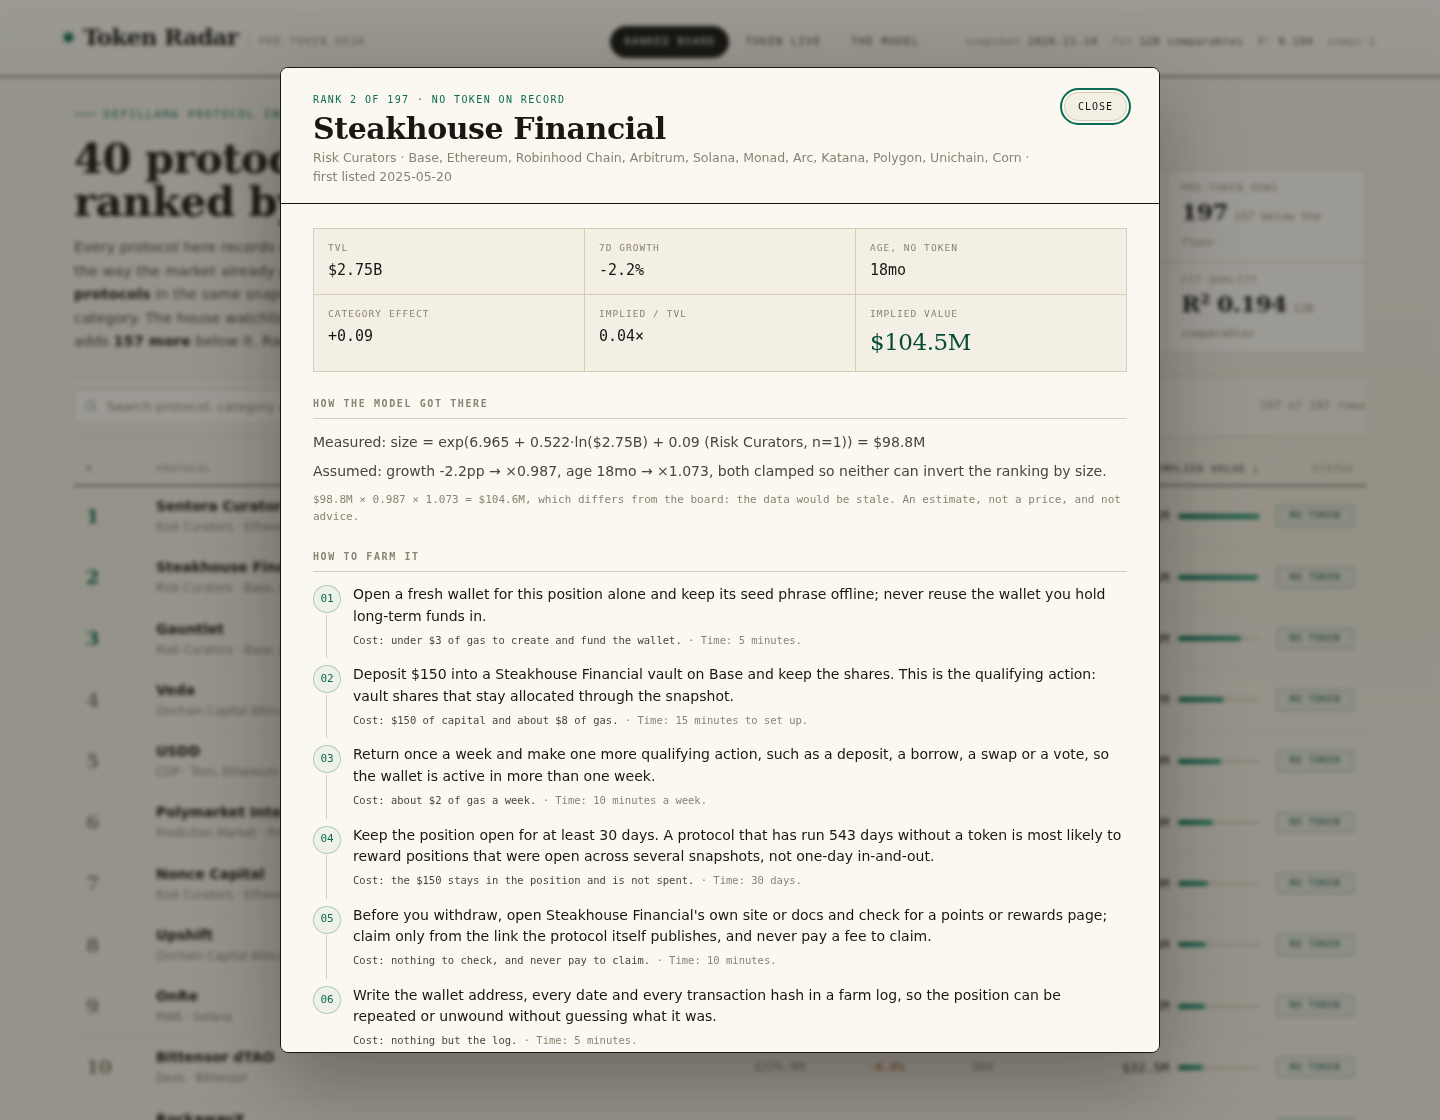
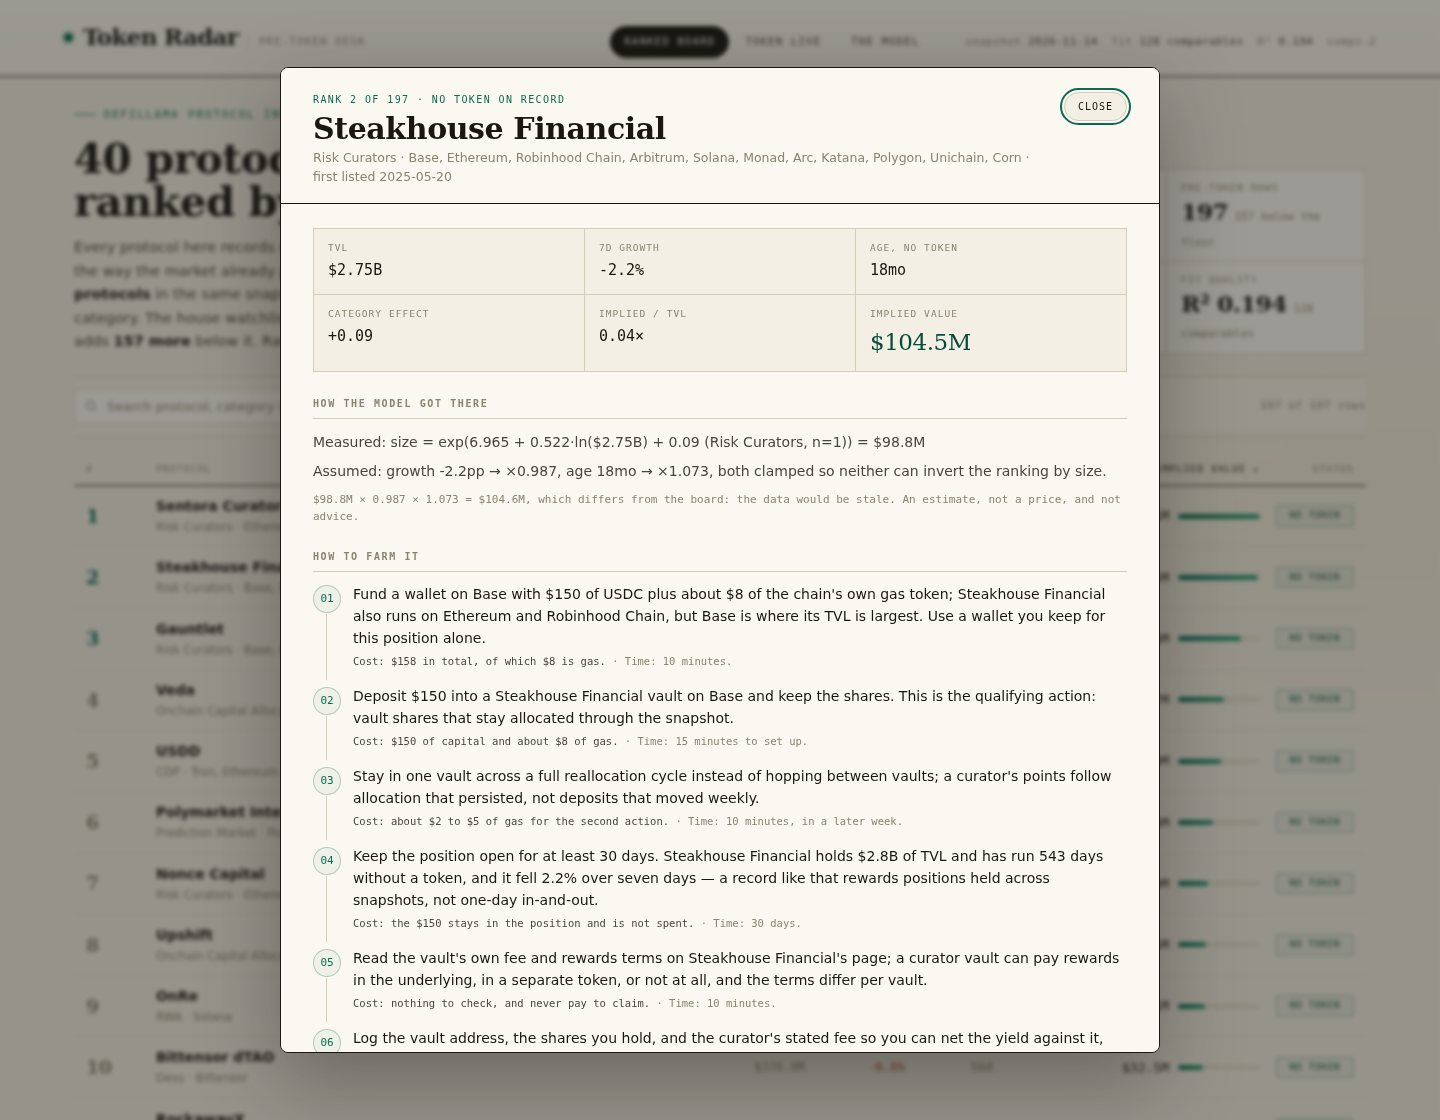
Farm plans: make all six steps protocol-specific
Three of six steps were one sentence for all 197 rows, and a further two
varied only by name or number, so a reader learned nothing about the
protocol from them. Only the qualifying action was genuinely specific,
and 27 rows fell through to a generic deposit template.

Every category now carries its own retain, claim and record text, and
steps 1 and 4 name the chains, TVL, age and seven-day change that drove
the row. The remaining variation is by category and by measured figure,
which is what the plan is derived from.

Coverage: 0 rows now reach the last-resort template (was 27). Every step
varies; 16 distinct retain and 16 distinct record texts cover 197 rows.
CeDeFi never matched its own branch, since 'cefi' is not a substring of
'cedefi'.

Changed region(s): [[0.2188, 0.5, 0.7812, 0.9375]]

diff --git a/lib/board.ts b/lib/board.ts
@@ -88,6 +88,14 @@ export function stepText(step: FarmStep): string {
   return s;
 }
 
+/** A dollar figure in the unit a reader thinks in: $2.8B, $513.8M, $45.2K. */
+function compactUsd(n: number): string {
+  if (n >= 1e9) return `$${(n / 1e9).toFixed(1)}B`;
+  if (n >= 1e6) return `$${(n / 1e6).toFixed(1)}M`;
+  if (n >= 1e3) return `$${(n / 1e3).toFixed(1)}K`;
+  return `$${Math.round(n)}`;
+}
+
 /** The chain a reader will actually use: the first one, which is where the TVL is largest. */
 function chainOf(p: SnapshotProtocol): string {
   return p.chains.length > 0 ? p.chains[0]! : 'its main chain';
@@ -109,77 +117,203 @@ function holdDaysFor(age: number | null): number {
   return 30;
 }
 
-/** The category's qualifying action, in words a farmer can follow, and what it earns on. */
-function actionFor(p: SnapshotProtocol, capital: number, chain: string): { action: string; earns: string } {
+/** A category's plan: what to do, how to stay active, what to check before claiming, what to record. */
+interface CategoryPlan {
+  qualify: string;
+  earns: string;
+  retain: string;
+  claim: string;
+  record: string;
+}
+
+/** The category's plan, in words a farmer can follow, from the protocol's own record. */
+function planFor(p: SnapshotProtocol, capital: number, chain: string): CategoryPlan {
   const c = (p.category ?? '').toLowerCase();
   const name = p.name;
   if (c.includes('lend') || c.includes('cdp') || c.includes('collateral'))
-    return { action: `Supply $${capital} of USDC to ${name} on ${chain} and keep the position open.`, earns: 'supply-side interest and a borrowing position that counts as usage' };
+    return {
+      qualify: `Supply $${capital} of USDC to ${name} on ${chain} and keep the position open.`,
+      earns: 'supply-side interest and a borrowing position that counts as usage',
+      retain: `Borrow a small amount against the supply — well under the position's limit — and repay it a few days later. A lending protocol counts a wallet that both supplies and borrows as a real user, not a one-way depositor.`,
+      claim: `Check ${name}'s own app for a points or rewards tab before withdrawing, and confirm whether rewards accrue on supplied balance, borrowed balance or both; claiming from a link anyone else posted is how farm wallets get drained.`,
+      record: `the supply and borrow transaction hashes, the market you used, and the health factor you left the position at`,
+    };
   if (c.includes('dex') || c.includes('leveraged farm'))
-    return { action: `Provide $${capital} of liquidity to ${name}'s deepest pool on ${chain}.`, earns: 'swap fees and a liquidity position in the protocol\'s own pool' };
+    return {
+      qualify: `Provide $${capital} of liquidity to ${name}'s deepest pool on ${chain}.`,
+      earns: 'swap fees and a liquidity position in the protocol\'s own pool',
+      retain: `Re-range or rebalance the position once a week rather than leaving it out of range; an out-of-range position earns nothing and reads as inactive, while a rebalance is a second week of qualifying activity.`,
+      claim: `Check whether ${name} rewards the pool you chose or only listed pools, and whether fees must be claimed before the position is closed; unclaimed fees are the most commonly forfeited reward on a DEX.`,
+      record: `the pool address, the position NFT id if the DEX issues one, and each rebalance's transaction hash`,
+    };
   if (c.includes('yield'))
-    return { action: `Deposit $${capital} of USDC into ${name}'s highest-TVL vault on ${chain}.`, earns: 'vault yield and a deposit that stays through the snapshot' };
+    return {
+      qualify: `Deposit $${capital} of USDC into ${name}'s highest-TVL vault on ${chain}.`,
+      earns: 'vault yield and a deposit that stays through the snapshot',
+      retain: `Leave the deposit through at least one full epoch and check the vault's share price moved, rather than adding and removing in the same week; a deposit that spans a snapshot is what a points program can see.`,
+      claim: `Confirm on ${name}'s own page whether rewards are paid in the vault's own token or a separate one, and whether the vault must be exited to claim.`,
+      record: `the vault address, the share count you received, and the entry and exit share prices`,
+    };
   if (c.includes('bridge'))
-    return { action: `Bridge $${capital} of USDC to ${chain} through ${name} and use the bridged funds there.`, earns: 'bridging volume in both directions' };
+    return {
+      qualify: `Bridge $${capital} of USDC to ${chain} through ${name} and use the bridged funds there.`,
+      earns: 'bridging volume in both directions',
+      retain: `Bridge back a portion after a few days rather than leaving funds stranded. Volume in both directions is what a bridge measures, and a round trip costs little on a cheap chain.`,
+      claim: `Bridge points are usually counted per direction and per chain pair, so check ${name}'s own dashboard for which pairs qualify before you assume your route counted.`,
+      record: `each route's source and destination chain, the transaction hash on both sides, and the amount that actually arrived after fees`,
+    };
   if (c.includes('staking') || c.includes('restak'))
-    return { action: `Stake $${capital} of the chain's staking asset through ${name} and keep the receipt token.`, earns: 'staking yield on the receipt, held rather than sold' };
-  if (c.includes('perpetual') || c.includes('derivative') || c.includes('options'))
-    return { action: `Deposit $${capital} of USDC as margin on ${name} on ${chain} and open one small hedge.`, earns: 'trading volume with the margin kept on the venue' };
+    return {
+      qualify: `Stake $${capital} of the chain's staking asset through ${name} and keep the receipt token.`,
+      earns: 'staking yield on the receipt, held rather than sold',
+      retain: `Hold the receipt token rather than selling it; a receipt that is sold back to the market is a wallet that took the yield and left, which is the opposite of what a restaking points program rewards.`,
+      claim: `Check whether ${name} rewards the receipt token holder or the underlying staker, and whether an unbonding period delays the exit past the snapshot.`,
+      record: `the receipt token's contract address, the amount minted, and the unbonding period that applies to your position`,
+    };
+  if (c.includes('perpetual') || c.includes('derivative') || c.includes('options') || c.includes('basis'))
+    return {
+      qualify: `Deposit $${capital} of USDC as margin on ${name} on ${chain} and open one small hedge.`,
+      earns: 'trading volume with the margin kept on the venue',
+      retain: `Keep the margin on the venue between trades instead of withdrawing after each one; a margin balance that stays is what a trading points program measures, and it costs nothing to leave it there.`,
+      claim: `Check ${name}'s own fee and rewards page for whether points follow volume, open interest or margin held — the three reward very different behaviour.`,
+      record: `each position's size, entry and exit, the funding paid, and the margin balance you kept on the venue`,
+    };
   if (c.includes('prediction'))
-    return { action: `Fund $${capital} on ${name} and take one position on a market you can follow.`, earns: 'a settled position in the protocol\'s own market' };
-  if (c.includes('curator') || c.includes('allocator') || c.includes('risk'))
-    return { action: `Deposit $${capital} into a ${name} vault on ${chain} and keep the shares.`, earns: 'vault shares that stay allocated through the snapshot' };
+    return {
+      qualify: `Fund $${capital} on ${name} and take one position on a market you can follow.`,
+      earns: 'a settled position in the protocol\'s own market',
+      retain: `Let at least one position settle rather than closing it early; a settled position is a resolved trade the protocol can verify, while an early exit is indistinguishable from wash activity.`,
+      claim: `Check whether ${name} rewards volume, liquidity provided, or markets resolved, and claim only from the protocol's own site.`,
+      record: `the market you took, the price you entered at, the resolution, and the payout transaction hash`,
+    };
+  if (c.includes('curator') || c.includes('allocator') || c.includes('risk') || c.includes('liquidity manager'))
+    return {
+      qualify: `Deposit $${capital} into a ${name} vault on ${chain} and keep the shares.`,
+      earns: 'vault shares that stay allocated through the snapshot',
+      retain: `Stay in one vault across a full reallocation cycle instead of hopping between vaults; a curator's points follow allocation that persisted, not deposits that moved weekly.`,
+      claim: `Read the vault's own fee and rewards terms on ${name}'s page; a curator vault can pay rewards in the underlying, in a separate token, or not at all, and the terms differ per vault.`,
+      record: `the vault address, the shares you hold, and the curator's stated fee so you can net the yield against it`,
+    };
   if (c.includes('stable'))
-    return { action: `Mint or deposit $${capital} of the stable asset through ${name} on ${chain}.`, earns: 'supply of the stable asset and its peg volume' };
+    return {
+      qualify: `Mint or deposit $${capital} of the stable asset through ${name} on ${chain}.`,
+      earns: 'supply of the stable asset and its peg volume',
+      retain: `Hold the minted asset across a snapshot rather than minting and redeeming in one session; a stablecoin's usage is measured by supply that persisted.`,
+      claim: `Check ${name}'s own page for whether rewards follow minting, holding or providing liquidity, and whether a redemption fee eats the yield.`,
+      record: `the mint and redemption hashes, the collateral ratio you left the position at, and the redemption fee that applied`,
+    };
   if (c.includes('rwa'))
-    return { action: `Mint $${capital} of ${name}'s yield asset on ${chain} and hold it.`, earns: 'the yield the asset pays while it is held' };
+    return {
+      qualify: `Mint $${capital} of ${name}'s yield asset on ${chain} and hold it.`,
+      earns: 'the yield the asset pays while it is held',
+      retain: `Hold through at least one distribution date; an RWA pays on a schedule, so a position closed before the date earns the exposure and none of the yield.`,
+      claim: `Check ${name}'s own terms for the distribution schedule, any lock-up, and whether the asset can be redeemed at all on ${chain}.`,
+      record: `the asset's contract address, the distribution dates you held through, and the yield actually paid`,
+    };
   if (c.includes('insurance'))
-    return { action: `Buy $${capital} of cover from ${name} on ${chain} and keep the policy.`, earns: 'premium the protocol keeps, with the cover held' };
+    return {
+      qualify: `Buy $${capital} of cover from ${name} on ${chain} and keep the policy.`,
+      earns: 'premium the protocol keeps, with the cover held',
+      retain: `Keep the policy active past its first period rather than cancelling; underwriting capacity that stayed is what an insurance protocol counts.`,
+      claim: `Check ${name}'s own page for whether rewards follow premium paid, cover provided as an underwriter, or capital staked in the backstop.`,
+      record: `the policy id, the premium paid, the cover period, and the claim terms you were given`,
+    };
   if (c.includes('index'))
-    return { action: `Mint $${capital} of ${name}'s index on ${chain} and hold the basket.`, earns: 'the index exposure, held rather than redeemed' };
+    return {
+      qualify: `Mint $${capital} of ${name}'s index on ${chain} and hold the basket.`,
+      earns: 'the index exposure, held rather than redeemed',
+      retain: `Hold the index across a rebalance rather than minting and redeeming around it; a rebalance is where an index protocol sees who actually tracks it.`,
+      claim: `Check ${name}'s own page for the rebalance schedule and whether rewards follow holding or minting volume.`,
+      record: `the index token address, the components you received, and the rebalance dates you held through`,
+    };
   if (c.includes('launchpad'))
-    return { action: `Fund $${capital} on ${name} on ${chain} and take part in one launch.`, earns: 'a subscription that counts as demand on the launchpad' };
-  return { action: `Deposit $${capital} of USDC into ${name} on ${chain} and keep the position open.`, earns: 'a deposit that stays in the protocol through the snapshot' };
+    return {
+      qualify: `Fund $${capital} on ${name} on ${chain} and take part in one launch.`,
+      earns: 'a subscription that counts as demand on the launchpad',
+      retain: `Take part in a second launch rather than one; a launchpad measures repeat participation, and a single subscription reads as a one-off.`,
+      claim: `Check ${name}'s own page for whether rewards follow subscription size, number of launches joined, or tokens held after the sale.`,
+      record: `each launch you joined, the amount subscribed, the allocation received, and the vesting terms`,
+    };
+  if (c.includes('chain'))
+    return {
+      qualify: `Bridge $${capital} of USDC onto ${name} through its official bridge and use the funds there.`,
+      earns: 'bridged liquidity and on-chain activity on the chain itself',
+      retain: `Keep the funds on ${name} and make a few transactions over separate weeks; a chain measures addresses that stayed and used it, not addresses that bridged in and straight out.`,
+      claim: `Check ${name}'s own official channels for an incentives or points program, and treat any other link as hostile — chain airdrop phishing is the most common drain of farm wallets.`,
+      record: `the bridge transaction hash, the address you used on ${name}, and every transaction you made there`,
+    };
+  if (c.includes('payment') || c.includes('card'))
+    return {
+      qualify: `Move $${capital} through ${name} on ${chain} and complete one real transaction end to end.`,
+      earns: 'settled volume the protocol can verify, not a deposit that sat idle',
+      retain: `Complete a second transaction in a later week rather than one large one; payment products measure recurring settled volume.`,
+      claim: `Check ${name}'s own terms for whether rewards follow volume, cards issued or merchants onboarded, and whether a fee applies to the route you used.`,
+      record: `each transaction's amount, date and hash, and the fee the protocol charged`,
+    };
+  if (c.includes('otc') || c.includes('governance') || c.includes('farm') || c.includes('cedefi') || c.includes('cefi') || c.includes('btc'))
+    return {
+      qualify: `Deposit $${capital} into ${name} on ${chain} through the product its own site documents, and keep the position open.`,
+      earns: 'a position the protocol itself records against your address',
+      retain: `Return in a later week and make one more qualifying action rather than depositing once; a protocol with no points page yet still measures wallets that came back.`,
+      claim: `Read ${name}'s own documentation for how it intends to recognise users, and claim only from a link the protocol itself publishes — never from a third party.`,
+      record: `the product you used, the transaction hashes, and the terms the protocol published when you entered`,
+    };
+  return {
+    qualify: `Deposit $${capital} of USDC into ${name} on ${chain} and keep the position open.`,
+    earns: 'a deposit that stays in the protocol through the snapshot',
+    retain: `Return in a later week and make one more qualifying action rather than depositing once; a protocol with no points page yet still measures wallets that came back.`,
+    claim: `Check ${name}'s own site or docs for a points or rewards page before withdrawing, and claim only from a link the protocol itself publishes.`,
+    record: `the transaction hashes, the amount deposited, and the terms the protocol published when you entered`,
+  };
 }
 
 /**
  * A protocol's farm plan: six steps, each an action with a cost and a time. Every step is derived from
- * the protocol's own record (category, chains, TVL, age), never from a hand-written list of names.
+ * the protocol's own record (category, chains, TVL, growth, age), never from a hand-written list of
+ * names, and no step is the same sentence for every protocol.
  */
 export function farmSteps(p: SnapshotProtocol, age: number | null): FarmStep[] {
   const chain = chainOf(p);
   const capital = capitalFor(p);
   const hold = holdDaysFor(age);
   const gas = capital >= 150 ? 8 : 4;
-  const { action, earns } = actionFor(p, capital, chain);
+  const { qualify, earns, retain, claim, record } = planFor(p, capital, chain);
+  const otherChains = p.chains.slice(1, 3);
+  const growth = p.change_7d;
+  const growthNote =
+    growth === null || !Number.isFinite(growth)
+      ? 'its seven-day change is unrecorded'
+      : growth > 0
+        ? `it grew ${growth.toFixed(1)}% over seven days`
+        : `it fell ${Math.abs(growth).toFixed(1)}% over seven days`;
   return [
     {
-      text: `Open a fresh wallet for this position alone and keep its seed phrase offline; never reuse the wallet you hold long-term funds in.`,
-      cost: 'under $3 of gas to create and fund the wallet',
-      time: '5 minutes',
+      text: `Fund a wallet on ${chain} with $${capital} of USDC plus about $${gas} of the chain's own gas token${otherChains.length > 0 ? `; ${p.name} also runs on ${otherChains.join(' and ')}, but ${chain} is where its TVL is largest` : ''}. Use a wallet you keep for this position alone.`,
+      cost: `$${capital + gas} in total, of which $${gas} is gas`,
+      time: '10 minutes',
     },
     {
-      text: `${action} This is the qualifying action: ${earns}.`,
+      text: `${qualify} This is the qualifying action: ${earns}.`,
       cost: `$${capital} of capital and about $${gas} of gas`,
       time: '15 minutes to set up',
     },
     {
-      text: `Return once a week and make one more qualifying action, such as a deposit, a borrow, a swap or a vote, so the wallet is active in more than one week.`,
-      cost: 'about $2 of gas a week',
-      time: '10 minutes a week',
+      text: retain,
+      cost: 'about $2 to $5 of gas for the second action',
+      time: '10 minutes, in a later week',
     },
     {
-      text: `Keep the position open for at least ${hold} days. A protocol that has run ${age === null ? 'an unrecorded time' : `${age} days`} without a token is most likely to reward positions that were open across several snapshots, not one-day in-and-out.`,
+      text: `Keep the position open for at least ${hold} days. ${p.name} holds ${compactUsd(p.tvl_usd)} of TVL and has run ${age === null ? 'an unrecorded time' : `${age} days`} without a token, and ${growthNote} — a record like that rewards positions held across snapshots, not one-day in-and-out.`,
       cost: `the $${capital} stays in the position and is not spent`,
       time: `${hold} days`,
     },
     {
-      text: `Before you withdraw, open ${p.name}'s own site or docs and check for a points or rewards page; claim only from the link the protocol itself publishes, and never pay a fee to claim.`,
+      text: claim,
       cost: 'nothing to check, and never pay to claim',
       time: '10 minutes',
     },
     {
-      text: `Write the wallet address, every date and every transaction hash in a farm log, so the position can be repeated or unwound without guessing what it was.`,
+      text: `Log ${record}, and keep the log where the position is not — a wallet compromised with its own history is a farm lost with its proof.`,
       cost: 'nothing but the log',
       time: '5 minutes',
     },
